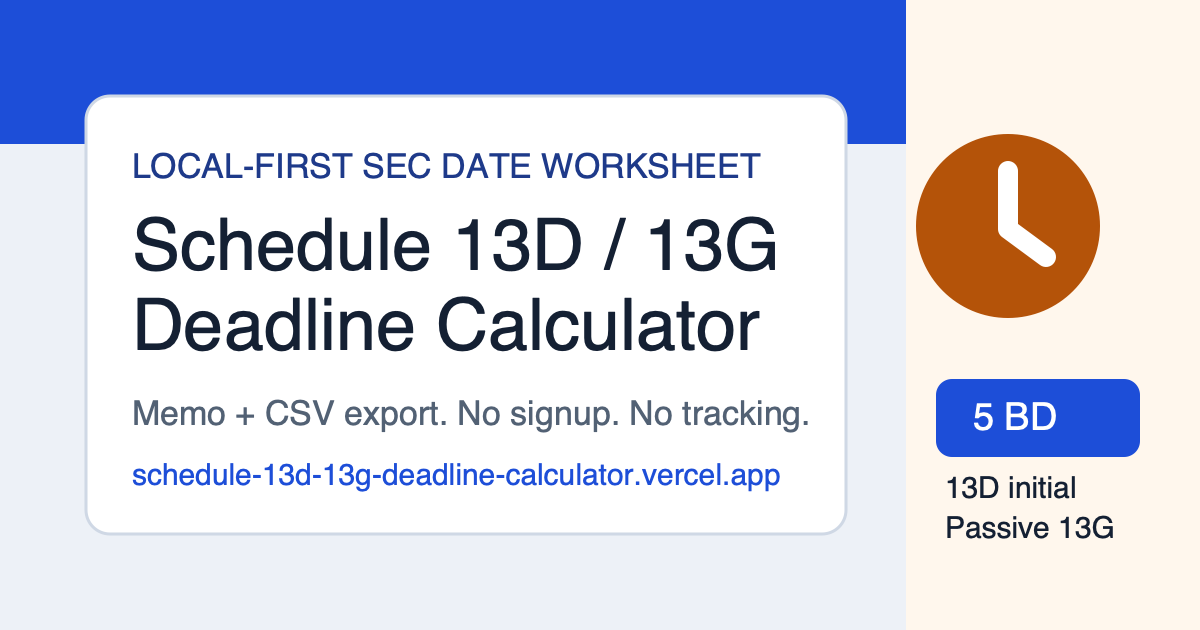
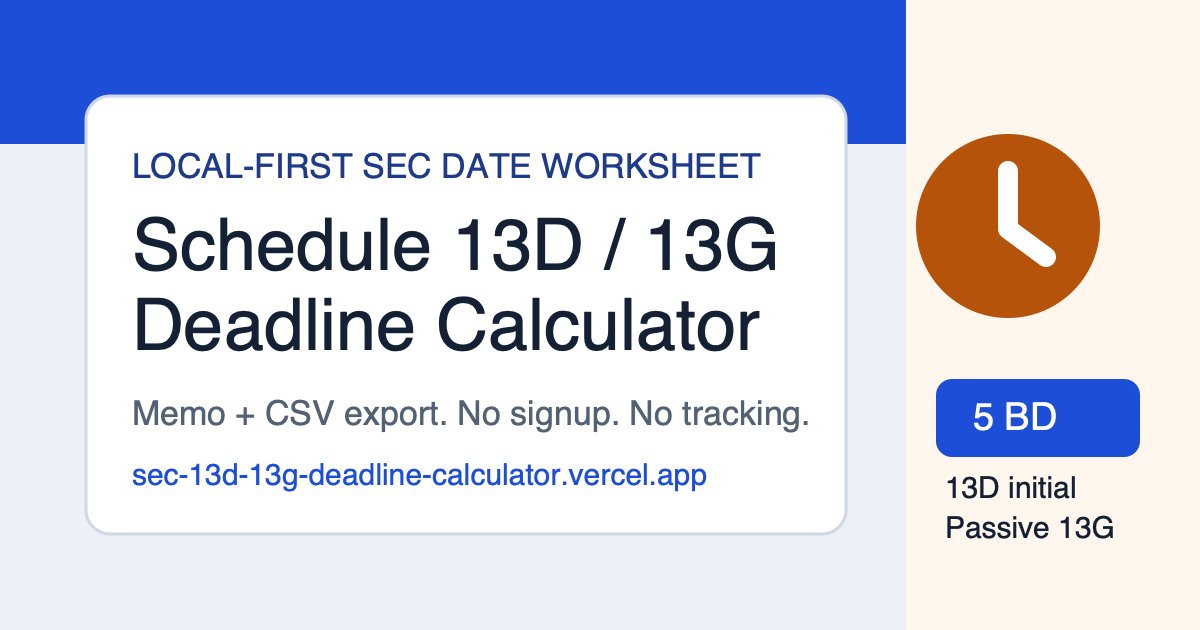
Use clean production slug

Changed region(s): [[0.1233, 0.7238, 0.6475, 0.7841]]

diff --git a/index.html b/index.html
@@ -6,14 +6,14 @@
     <title>Schedule 13D / 13G Deadline Calculator</title>
     <meta name="description" content="Free no-tracking Schedule 13D and 13G deadline calculator for common beneficial ownership reporting scenarios, business-day timing, 10 p.m. ET cutoff notes, memo copy, and CSV export.">
     <meta name="robots" content="index,follow">
-    <link rel="canonical" href="https://schedule-13d-13g-deadline-calculator.vercel.app/">
+    <link rel="canonical" href="https://sec-13d-13g-deadline-calculator.vercel.app/">
     <meta property="og:title" content="Schedule 13D / 13G Deadline Calculator">
     <meta property="og:description" content="Calculate common Schedule 13D and 13G target dates locally in your browser. No signup, no tracking, no uploaded data.">
     <meta property="og:type" content="website">
-    <meta property="og:url" content="https://schedule-13d-13g-deadline-calculator.vercel.app/">
-    <meta property="og:image" content="https://schedule-13d-13g-deadline-calculator.vercel.app/preview.png">
+    <meta property="og:url" content="https://sec-13d-13g-deadline-calculator.vercel.app/">
+    <meta property="og:image" content="https://sec-13d-13g-deadline-calculator.vercel.app/preview.png">
     <meta name="twitter:card" content="summary_large_image">
-    <meta name="twitter:image" content="https://schedule-13d-13g-deadline-calculator.vercel.app/preview.png">
+    <meta name="twitter:image" content="https://sec-13d-13g-deadline-calculator.vercel.app/preview.png">
     <link rel="stylesheet" href="styles.css">
     <link rel="icon" href="favicon.svg" type="image/svg+xml">
     <script type="application/ld+json">
@@ -25,7 +25,7 @@
             "name": "Schedule 13D / 13G Deadline Calculator",
             "applicationCategory": "FinanceApplication",
             "operatingSystem": "Any",
-            "url": "https://schedule-13d-13g-deadline-calculator.vercel.app/",
+            "url": "https://sec-13d-13g-deadline-calculator.vercel.app/",
             "description": "Free no-tracking browser-only deadline worksheet for common Schedule 13D and Schedule 13G beneficial ownership reporting scenarios.",
             "offers": {
               "@type": "Offer",

diff --git a/README.md b/README.md
@@ -10,9 +10,11 @@ Free no-tracking Schedule 13D and 13G deadline calculator for common beneficial 
 
 The tool runs entirely in the browser. It has no signup, cookies, analytics, beacons, external scripts, uploads, or browser storage.
 
-Live site: https://schedule-13d-13g-deadline-calculator.vercel.app/
+Live site: https://sec-13d-13g-deadline-calculator.vercel.app/
 
-Preview image: https://schedule-13d-13g-deadline-calculator.vercel.app/preview.png
+Source: https://github.com/Turner-Levey/sec-13d-13g-deadline-calculator
+
+Preview image: https://sec-13d-13g-deadline-calculator.vercel.app/preview.png
 
 Sources:
 
